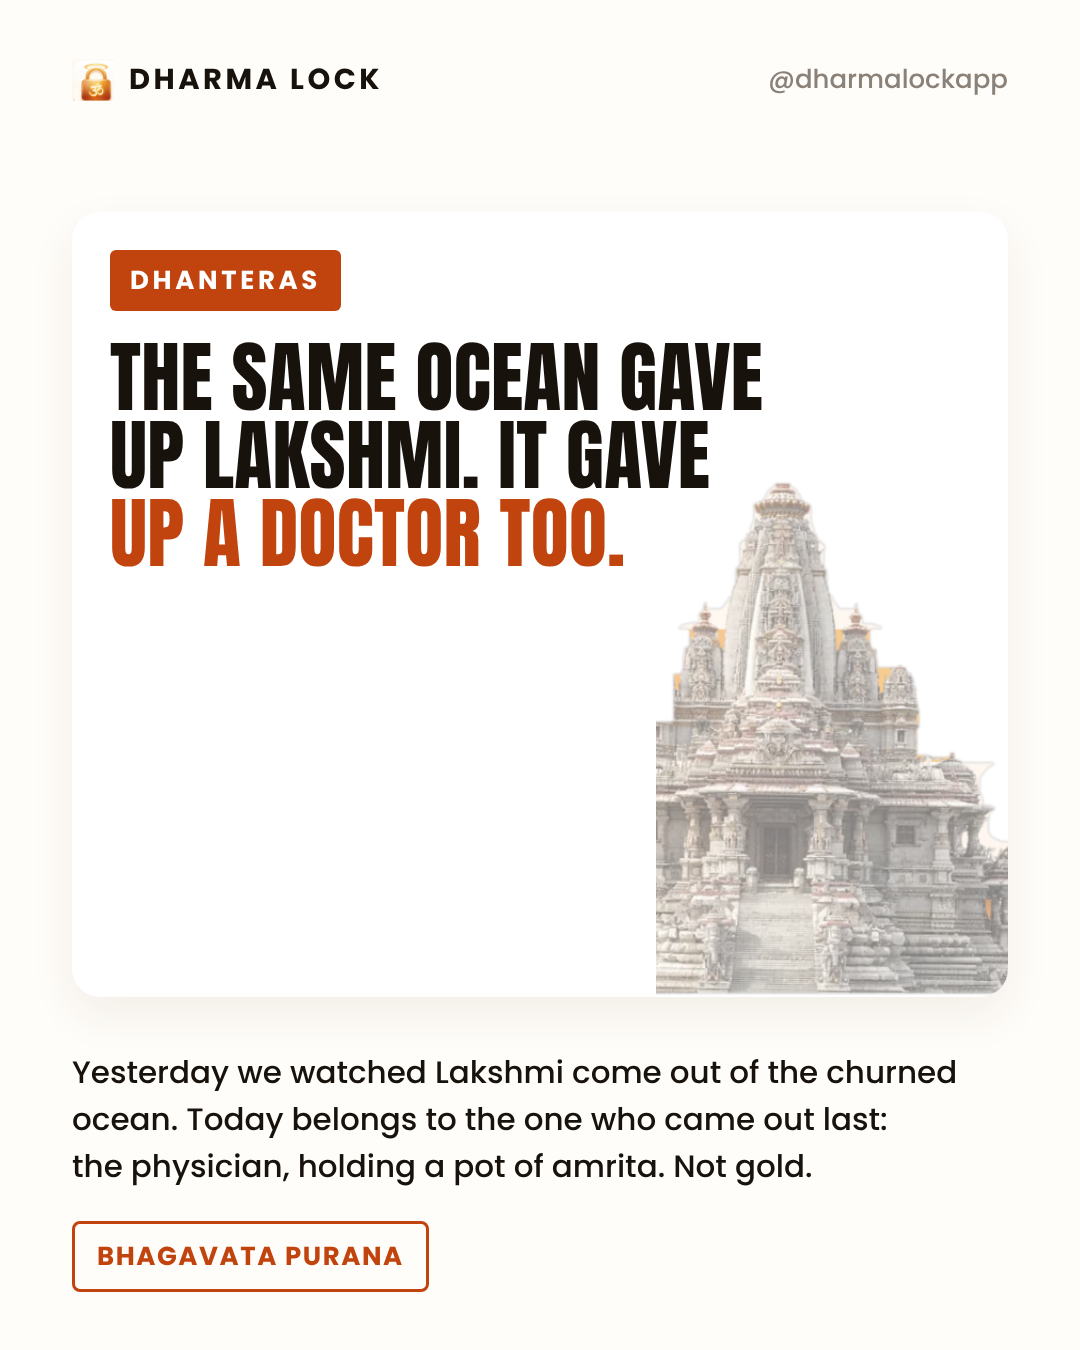
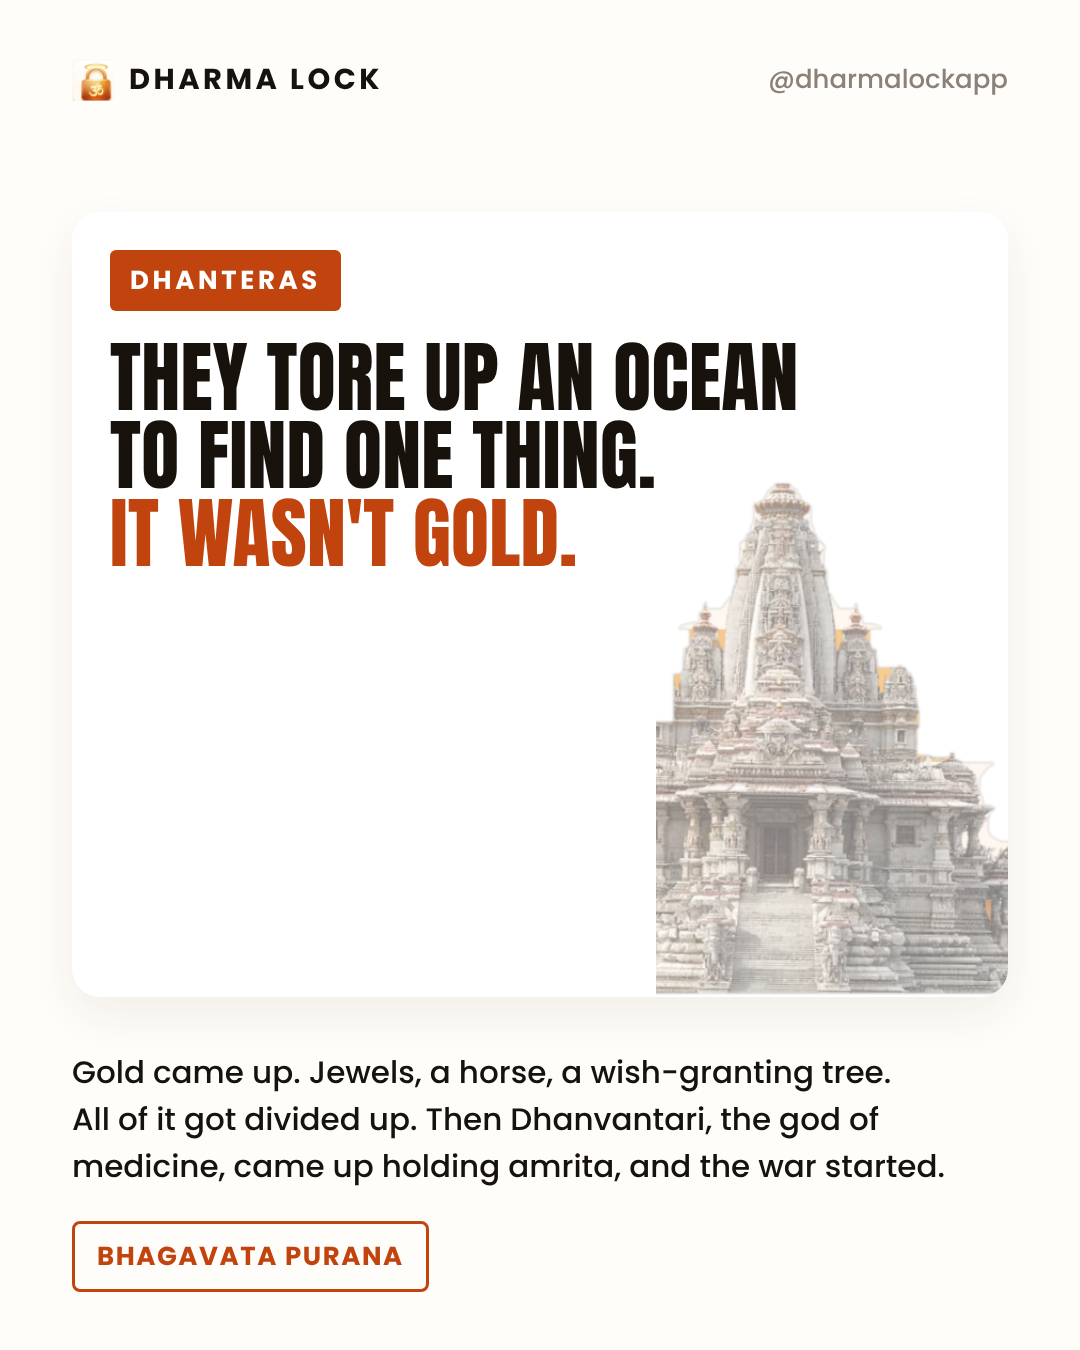
Make the Dhanteras copy dramatic and name Dhanvantari
Avi: more dramatic, gold and wealth is not the whole purpose, health
is wealth - and name the god of medicine.

The drama now comes from the text rather than from assertion. The
churning turned up gold, jewels, a horse and a wish-granting tree and
all of it was divided up; the demons snatched the amrita the moment
Dhanvantari rose with it (vedabase.net/sb/8/8/summary). Nothing else
out of that ocean caused a war. Gita 6.17 carries health-as-wealth.

Claude-Session: https://claude.ai/code/session_01HNupAEpVqp3Hn3iZhhmgza

Changed region(s): [[0.0917, 0.2489, 0.7639, 0.4356], [0.0611, 0.7778, 0.8861, 0.8711]]

diff --git a/pipeline/dhanteras_content.py b/pipeline/dhanteras_content.py
@@ -34,20 +34,20 @@ FACT CHECK
 """
 CHIP = "DHANTERAS"
 # Line 3 stays short: the temple crop sits bottom-right of the hook card.
-HEAD = [("THE SAME OCEAN GAVE", False),
-        ("UP LAKSHMI. IT GAVE", False),
-        ("UP A DOCTOR TOO.", True)]
-BODY = ["Yesterday we watched Lakshmi come out of the churned",
-        "ocean. Today belongs to the one who came out last:",
-        "the physician, holding a pot of amrita. Not gold."]
+HEAD = [("THEY TORE UP AN OCEAN", False),
+        ("TO FIND ONE THING.", False),
+        ("IT WASN'T GOLD.", True)]
+BODY = ["Gold came up. Jewels, a horse, a wish-granting tree.",
+        "All of it got divided up. Then Dhanvantari, the god of",
+        "medicine, came up holding amrita, and the war started."]
 PILL = "BHAGAVATA PURANA"
 
 V1 = dict(
     source="BHAGAVATA PURANA",
-    title="He came out holding a pot of amrita",
+    title="The god of medicine, holding a pot of amrita",
     reference="CANTO 8, CHAPTER 8, VERSE 33",
-    gloss=["Everything else the ocean gave up could be worn or spent.",
-           "This one could not. It is the day named after him."],
+    gloss=["This is Dhanvantari, and the day is named after him.",
+           "The demons snatched the pot and ran the moment he rose."],
     devanagari=["स्निग्धकुञ्चितकेशान्तसुभग: सिंहविक्रम: ।",
                 "अमृतापूर्णकलसं बिभ्रद् वलयभूषित: ॥"],
     translit="Amritapurna-kalasam bibhrad valaya-bhushitah",
@@ -58,18 +58,18 @@ V2 = dict(
     source="BHAGAVAD GITA",
     title="It works for the one who is not at war with himself",
     reference="CHAPTER 6, VERSE 17",
-    gloss=["Eat normally. Sleep normally. Work normally.",
-           "He says that is the condition, not the warm-up."],
+    gloss=["Gold you can buy again tomorrow. This is the other",
+           "kind of wealth, and it runs on ordinary habits."],
     devanagari=["युक्ताहारविहारस्य युक्तचेष्टस्य कर्मसु ।",
                 "युक्तस्वप्नावबोधस्य योगो भवति दु:खहा ॥"],
     translit="Yuktahara-viharasya yukta-cestasya karmasu",
     translation="For the one whose eating and resting, whose work, whose sleeping and waking are all in measure, this practice is what ends the suffering.",
 )
 
-TURN = ["&ldquo;Dhanteras is the doctor's day",
-        "before it is the gold's.&rdquo;"]
+TURN = ["&ldquo;The war was never",
+        "about the gold.&rdquo;"]
 
-REEL_SUB = "he came out holding medicine."
-REEL_CLOSE = [("BUY THE GOLD.", False),
-              ("THEN GO TO BED", False),
+REEL_SUB = "and that is when the war started."
+REEL_CLOSE = [("YOU BOUGHT THE GOLD.", False),
+              ("NOW GO TO BED", False),
               ("ON TIME.", True)]

diff --git a/pipeline/omni_dhanteras.py b/pipeline/omni_dhanteras.py
@@ -19,19 +19,19 @@ from _guard import preflight
 
 POST = dict(
     struck="DHANTERAS IS GOLD DAY.",
-    correction=["It is also the day of",
-                "a physician."],
-    reframe=["He came out of the same",
-             "ocean as Lakshmi. Last."],
+    correction=["They tore up an ocean",
+                "to find one thing."],
+    reframe=["It was never the gold.",
+             "Gold was the easy part."],
     label="WHAT THE TEXT SAYS",
     paragraphs=[
-        ["Lakshmi rose from that churning.",
-         "He rose from it after her."],
-        ["He was holding a pot of amrita.",
-         "Medicine. Not coins, not a chain."],
+        ["Jewels came up. A horse. An elephant.",
+         "A tree that grants wishes."],
+        ["Then Dhanvantari, god of medicine,",
+         "rose holding amrita. Then the war."],
     ],
-    closing=["Buy the gold if you want it.",
-             "You cannot re-buy your health."],
+    closing=["Gold you can buy again tomorrow.",
+             "Health is the wealth you cannot."],
     badge="BHAGAVATA PURANA 8.8.33",
 )
 
